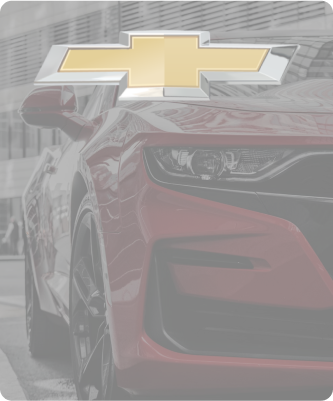
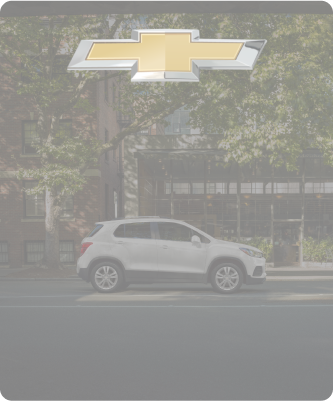
feat: progress new

diff --git a/src/components/Header.tsx b/src/components/Header.tsx
@@ -166,14 +166,104 @@ const Header = () => {
         {/* Mobile Navigation */}
         {isMenuOpen && (
           <div className="md:hidden">
-            <div className="px-2 pt-2 pb-3 space-y-1 bg-gray-800 rounded-lg mt-2">
+            <div className="px-2 pt-2 pb-3 space-y-1 bg-[#711917] rounded-lg mt-2">
               {navigationItems.map((item) => (
+                <>
                 <button
-                  key={item.name}
-                  className="block px-3 py-2 text-gray-300 hover:text-white hover:bg-gray-700 rounded-md text-base font-medium w-full text-left transition-colors duration-200"
+                  className="p-2 flex items-center space-x-1 text-[#F2F2F2] hover:text-white transition-colors duration-200 text-base font-medium"
+                  onClick={() =>
+                    item.hasDropdown && setIsOurStoryOpen(!isOurStoryOpen)
+                  }
                 >
-                  {item.name}
+                  {
+                    item.name === 'News' ?
+                    <a href={item?.href} target="_blank">
+                      {item.name}
+                    </a>
+                    :
+                    <span onClick={() => handleDropdownItemClick(item?.href)}>
+                      {item.name}
+                    </span>
+                  }
+                  {
+                    item.name === 'News' ?
+                    <ExternalLink size={18} /> : ''
+                  }
+                  {item.hasDropdown && (
+                    <ChevronDown
+                      className={`w-4 h-4 transition-transform duration-200 ${
+                        isOurStoryOpen ? "rotate-180" : ""
+                      }`}
+                    />
+                  )}
                 </button>
+                {item.hasDropdown && isOurStoryOpen && (
+                  <div
+                    className=" w-full bg-white shadow-2xl z-50 overflow-hidden"
+                    onClick={() => {
+                      if (isOurStoryOpen) {
+                        setIsOurStoryOpen(true);
+                      } else {
+                        setIsOurStoryOpen(false);
+                      }
+                    }}
+                  >
+                    <div className="flex gap-0">
+                      {/* Our Journey */}
+                      <div
+                        className="group cursor-pointer hover:bg-gray-50 transition-colors duration-200"
+                        onClick={() => {
+                          handleDropdownItemClick("/our-story/journey");
+                          setIsOurStoryOpen(false);
+                        }}
+                      >
+                        <div className="p-4">
+                          <div className="relative overflow-hidden rounded-lg mb-4">
+                            <img
+                              src={NavbarImage1}
+                              alt="Our Journey"
+                              className="w-full h-32 object-cover group-hover:scale-105 transition-transform duration-300"
+                            />
+                            <div className="absolute inset-0 bg-gradient-to-t from-black/20 to-transparent"></div>
+                          </div>
+                          <div className="flex items-center justify-between">
+                            <h3 className="text-[#711917] font-semibold text-sm">
+                              Our Journey
+                            </h3>
+                            <ArrowRight className="w-4 h-4 text-[#711917] group-hover:text-[#711917] group-hover:translate-x-1 transition-all duration-200" />
+                          </div>
+                        </div>
+                      </div>
+
+                      {/* Our Culture */}
+                      <div
+                        className="group cursor-pointer hover:bg-gray-50 transition-colors duration-200"
+                        onClick={() => {
+                          handleDropdownItemClick("/our-story/culture");
+                          setIsOurStoryOpen(false);
+                        }}
+                      >
+                        <div className="p-4">
+                          <div className="relative overflow-hidden rounded-lg mb-4">
+                            <img
+                              src={NavbarImage2}
+                              alt="Our Culture"
+                              className="w-full h-32 object-cover group-hover:scale-105 transition-transform duration-300"
+                            />
+                            <div className="absolute inset-0 bg-gradient-to-t from-black/20 to-transparent"></div>
+                          </div>
+                          <div className="flex items-center justify-between">
+                            <h3 className="text-[#711917] font-semibold text-sm">
+                              Our Culture
+                            </h3>
+                            <ArrowRight className="w-4 h-4 text-[#711917] group-hover:text-[#711917] group-hover:translate-x-1 transition-all duration-200" />
+                          </div>
+                        </div>
+                      </div>
+                    </div>
+                  </div>
+                )}
+                </>
               ))}
             </div>
           </div>

diff --git a/src/components/Footer.tsx b/src/components/Footer.tsx
@@ -46,7 +46,7 @@ const Footer = () => {
 
   return (
     <footer>
-      <div className="bg-gradient-to-b from-[#711917] via-[#0A0A0A] to-[#0A0A0A]">
+      {/* <div className="bg-gradient-to-b from-[#711917] via-[#0A0A0A] to-[#0A0A0A]">
         <div className="mx-auto container w-full py-[72px] px-4 sm:px-6 lg:px-8">
           <div className="grid grid-cols-1 lg:grid-cols-2 gap-12 lg:gap-16 items-center">
             <div className="flex flex-col justify-between h-full">
@@ -71,7 +71,7 @@ const Footer = () => {
             </div>
           </div>
         </div>
-      </div>
+      </div> */}
 
       <div className="relative h-full min-h-screen flex items-center">
         {/* Background Image */}
@@ -85,7 +85,7 @@ const Footer = () => {
         </div>
 
         {/* Content */}
-        <div className="relative pt-32 h-full 2xl:h-screen max-md:h-screen z-10 mx-auto container w-full px-4 sm:px-6 lg:px-8">
+        <div className="relative pt-32 h-full z-10 mx-auto container w-full px-4 sm:px-6 lg:px-8">
           <div className="flex gap-10 flex-col lg:flex-row justify-between items-center lg:items-start text-[#F2F2F2]">
             <div className="flex flex-col justify-center items-start">
               <img src={NusantaraLogo} className="mb-6" />
@@ -129,7 +129,7 @@ const Footer = () => {
             </div>
           </div>
 
-          <div className="text-[#F4F4F4] mt-10 w-1/2 bg-[#711917] p-6 rounded-lg mb-24 2xl:pb-6">
+          {/* <div className="text-[#F4F4F4] mt-10 w-1/2 bg-[#711917] p-6 rounded-lg mb-24 2xl:pb-6">
             <p className="font-medium text-xl mb-4">
               Subscribe to our newsletter and be the first to know about new
               branch openings, exclusive brand updates, and event announcements.
@@ -140,11 +140,11 @@ const Footer = () => {
                 <span>Subscribe</span>
               </button>
             </div>
-          </div>
+          </div> */}
 
           <div className="flex justify-between items-center text-[#A8A8A8]">
             <div>
-              <p className="text-[#A8A8A8] px-8 absolute bottom-8 left-0">
+              <p className="text-[#A8A8A8] px-8">
                 Copyright © PT Nusantara Batavia International
               </p>
             </div>
@@ -152,7 +152,7 @@ const Footer = () => {
             <div>
               <p
                 onClick={scrollToTop}
-                className="text-[#F4F4F4] px-8 absolute bottom-8 right-0 font-medium cursor-pointer hover:text-[#A8A8A8] transition-colors duration-300"
+                className="text-[#F4F4F4] px-8 absolute bottom-20 right-0 font-medium cursor-pointer hover:text-[#A8A8A8] transition-colors duration-300"
               >
                 Back to Top
                 <ChevronUp className="inline-block ml-2 w-6 h-6" />

diff --git a/src/pages/our-story/culture/components/Hero.tsx b/src/pages/our-story/culture/components/Hero.tsx
@@ -13,36 +13,36 @@ const Hero = () => {
           </div>
           <div className="w-full lg:w-1/4 flex flex-col items-start justify-around gap-2 lg:gap-0">
             <div className="flex items-center gap-1">
-              <p className="text-4xl lg:text-6xl font-bold text-[#F4F4F4]">T</p>
-              <p className="text-2xl lg:text-4xl font-bold text-[#F4F4F4]">
+              <p className="text-4xl lg:text-6xl font-bold text-[#F4F4F4] italic">T</p>
+              <p className="text-2xl lg:text-4xl text-[#F4F4F4] italic">
                 enacious
               </p>
             </div>
             <div className="w-4 lg:w-20 border-t-[3px] border-t-[#4B4B4B]" />
             <div className="flex items-center gap-1">
-              <p className="text-4xl lg:text-6xl font-bold text-[#F4F4F4]">R</p>
-              <p className="text-2xl lg:text-4xl font-bold text-[#F4F4F4]">
+              <p className="text-4xl lg:text-6xl font-bold text-[#F4F4F4] italic">R</p>
+              <p className="text-2xl lg:text-4xl text-[#F4F4F4] italic">
                 eliable
               </p>
             </div>
             <div className="w-4 lg:w-20 border-t-[3px] border-t-[#4B4B4B]" />
             <div className="flex items-center gap-1">
-              <p className="text-4xl lg:text-6xl font-bold text-[#F4F4F4]">U</p>
-              <p className="text-2xl lg:text-4xl font-bold text-[#F4F4F4]">
+              <p className="text-4xl lg:text-6xl font-bold text-[#F4F4F4] italic">U</p>
+              <p className="text-2xl lg:text-4xl text-[#F4F4F4] italic">
                 ser-focus
               </p>
             </div>
             <div className="w-4 lg:w-20 border-t-[3px] border-t-[#4B4B4B]" />
             <div className="flex items-center gap-1">
-              <p className="text-4xl lg:text-6xl font-bold text-[#F4F4F4]">S</p>
-              <p className="text-2xl lg:text-4xl font-bold text-[#F4F4F4]">
+              <p className="text-4xl lg:text-6xl font-bold text-[#F4F4F4] italic">S</p>
+              <p className="text-2xl lg:text-4xl text-[#F4F4F4]italic">
                 ynergy
               </p>
             </div>
             <div className="w-4 lg:w-20 border-t-[3px] border-t-[#4B4B4B]" />
             <div className="flex items-center gap-1">
-              <p className="text-4xl lg:text-6xl font-bold text-[#F4F4F4]">T</p>
-              <p className="text-2xl lg:text-4xl font-bold text-[#F4F4F4]">
+              <p className="text-4xl lg:text-6xl font-bold text-[#F4F4F4] italic">T</p>
+              <p className="text-2xl lg:text-4xl text-[#F4F4F4] italic">
                 ransformation
               </p>
             </div>

diff --git a/src/pages/brands/components/Hero.tsx b/src/pages/brands/components/Hero.tsx
@@ -1,76 +1,9 @@
-import BgHonda from "../../../assets/img/bg-honda.png";
-import BgRoyalEnfield from "../../../assets/img/bg-royal-enfield.png";
-import BgHyundai from "../../../assets/img/bg-hyundai.png";
-import BgScomadi from "../../../assets/img/bg-scomadi.png";
-import BgJeep from "../../../assets/img/bg-jeep.png";
-import BgMercy from "../../../assets/img/bg-mercy.png";
-import BgFord from "../../../assets/img/bg-ford.png";
-import BgChevrolet from "../../../assets/img/bg-chevrolet.png";
+import Brands from "../../../components/Brands";
 
 const Hero = () => {
-  const brands = [
-    {
-      name: "Honda",
-      image: BgHonda,
-    },
-    {
-      name: "Royal Enfield",
-      image: BgRoyalEnfield,
-    },
-    {
-      name: "Hyundai",
-      image: BgHyundai,
-    },
-    {
-      name: "Scomadi",
-      image: BgScomadi,
-    },
-    {
-      name: "Jeep",
-      image: BgJeep,
-    },
-    {
-      name: "Mercedes",
-      image: BgMercy,
-    },
-    {
-      name: "Ford",
-      image: BgFord,
-    },
-    {
-      name: "Chevrolet",
-      image: BgChevrolet,
-    },
-  ];
 
   return (
-    <section className="bg-[#0A0A0A] px-8 min-h-screen flex items-center">
-      <div className="container mx-auto pt-32">
-        <div className="text-center">
-          <h2 className="text-4xl sm:text-5xl lg:text-6xl font-bold text-white mb-16 lg:mb-32 leading-tight">
-            Trusted Brands, <br />
-            Proven Performance
-          </h2>
-        </div>
-
-        {/* Brand Grid */}
-        <div className="grid grid-cols-2 lg:grid-cols-4 gap-4 lg:gap-6">
-          {brands.map((brand, index) => (
-            <div
-              key={index}
-              className="w-full h-[200px] lg:h-[400px] group relative overflow-hidden rounded-2xl bg-gray-800 aspect-square hover:transform hover:scale-105 transition-all duration-500"
-            >
-              <img
-                src={brand.image}
-                alt={brand.name}
-                className="w-full h-full object-cover opacity-70 group-hover:opacity-90 transition-opacity duration-300"
-              />
-              <div className="absolute inset-0 bg-gradient-to-t from-black/80 via-black/20 to-transparent"></div>
-            </div>
-          ))}
-        </div>
-      </div>
-    </section>
+    <Brands />
   );
 };
 

diff --git a/src/components/Brands.tsx b/src/components/Brands.tsx
@@ -2,21 +2,21 @@ import { useState, useEffect } from "react";
 import { ChevronRight } from "lucide-react";
 
 import BgHonda from "../assets/img/bg-honda.png";
-import BgHondaActive from "../assets/img/bg-honda.png";
+import BgHondaActive from "../assets/img/bg-honda-active.png";
 import BgRoyalEnfield from "../assets/img/bg-royal-enfield.png";
-import BgRoyalEnfieldActive from "../assets/img/bg-royal-enfield.png";
+import BgRoyalEnfieldActive from "../assets/img/bg-royal-enfield-active.png";
 import BgHyundai from "../assets/img/bg-hyundai.png";
-import BgHyundaiActive from "../assets/img/bg-hyundai.png";
+import BgHyundaiActive from "../assets/img/bg-hyundai-active.png";
 import BgScomadi from "../assets/img/bg-scomadi.png";
-import BgScomadiActive from "../assets/img/bg-scomadi.png";
+import BgScomadiActive from "../assets/img/bg-scomadi-active.png";
 import BgJeep from "../assets/img/bg-jeep.png";
-import BgJeepActive from "../assets/img/bg-jeep.png";
+import BgJeepActive from "../assets/img/bg-jeep-active.png";
 import BgMercy from "../assets/img/bg-mercy.png";
-import BgMercyActive from "../assets/img/bg-mercy.png";
+import BgMercyActive from "../assets/img/bg-mercy-active.png";
 import BgFord from "../assets/img/bg-ford.png";
-import BgFordActive from "../assets/img/bg-ford.png";
+import BgFordActive from "../assets/img/bg-ford-active.png";
 import BgChevrolet from "../assets/img/bg-chevrolet.png";
-import BgChevroletActive from "../assets/img/bg-chevrolet.png";
+import BgChevroletActive from "../assets/img/bg-chevrolet-active.png";
 import { useNavigate } from "react-router-dom";
 
 const Brands = () => {
@@ -98,7 +98,7 @@ const Brands = () => {
                 <img
                   src={isActive ? brand.imageActive : brand.imageUnactive}
                   alt={brand.name}
-                  className="w-full h-full object-cover opacity-30 group-hover:opacity-100 transition-opacity duration-300"
+                  className="w-full h-full object-cover transition-opacity duration-300"
                 />
                 <div className="absolute inset-0 bg-gradient-to-t from-black/80 via-black/20 to-transparent"></div>
               </div>

diff --git a/src/components/Services.tsx b/src/components/Services.tsx
@@ -47,7 +47,7 @@ const Services = () => {
   };
 
   return (
-    <section className="bg-[#0A0A0A] py-16 lg:py-24">
+    <section className="bg-[#0A0A0A] h-screen py-16">
       <div className="max-w-7xl mx-auto px-4 sm:px-6 lg:px-8">
         {
           servicesItem === 'company' ? 
